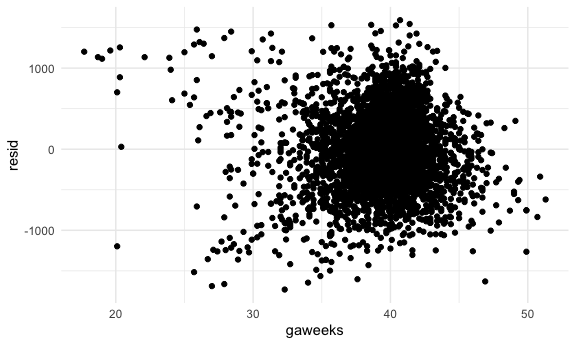
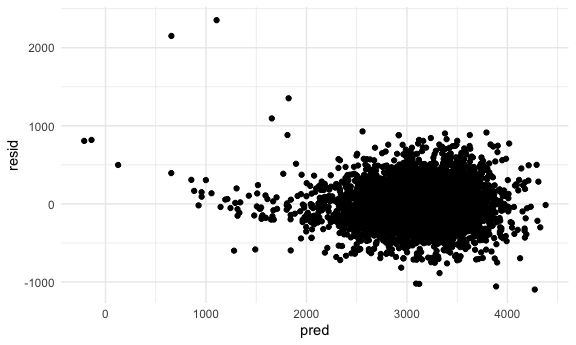
PROBLEM2

diff --git a/p8105_hw6_yz3955.md b/p8105_hw6_yz3955.md
@@ -39,6 +39,7 @@ homicide_df =
 Start with one city.
 
 ``` r
+#binomal(link=’logit’) #output follows binomial，link regression is logit，logistic regression
 baltimore_df =
   homicide_df %>% 
   filter(city_state == "Baltimore, MD")
@@ -62,6 +63,10 @@ glm(resolution ~ victim_age + victim_race + victim_sex,
 | victim\_raceWhite | 2.320 |     1.648 |     3.268 |
 | victim\_sexMale   | 0.426 |     0.325 |     0.558 |
 
+``` r
+## recall for logistic regression calculation equation:https://stats.stackexchange.com/questions/354098/calculating-confidence-intervals-for-a-logistic-regression
+```
+
 Try this across cities.
 
 ``` r
@@ -76,7 +81,7 @@ models_results_df =
   select(city_state, results) %>% 
   unnest(results) %>% 
   mutate(
-    OR = exp(estimate),
+    OR = exp(estimate), #  the odds ratio can be computed by raising e to the power of the logistic coefficient,
     CI_lower = exp(estimate - 1.96 * std.error),
     CI_upper = exp(estimate + 1.96 * std.error)
   ) %>% 
@@ -97,11 +102,30 @@ models_results_df %>%
 
 ## Problem 2
 
-Find some residuals
+### load data
 
 ``` r
 baby_df = 
-  read_csv("./data/birthweight.csv")
+  read_csv("./data/birthweight.csv") %>% 
+  mutate(
+    babysex = ifelse(babysex == 1, "male", "female"),
+    babysex = as.factor(babysex),
+    frace = case_when(
+      frace == 1 ~ "White", 
+      frace == 2 ~ "Black", 
+      frace == 3 ~ "Asian",
+      frace == 4 ~ "Puerto Rican",
+      frace == 8 ~ "Other",
+      frace == 9 ~ "Unknown"),
+    mrace = case_when(
+      mrace == 1 ~ "White", 
+      mrace == 2 ~ "Black", 
+      mrace == 3 ~ "Asian",
+      mrace == 4 ~ "Puerto Rican",
+      mrace == 8 ~ "Other"),
+   malform = ifelse(malform == 0, "absert", "present"),
+   malform = as.factor(malform)
+  )
 ```
 
     ## Parsed with column specification:
@@ -111,17 +135,281 @@ baby_df =
 
     ## See spec(...) for full column specifications.
 
-fit a model
+### fit a model:
+
+In order to get a hypothesized structure of linear model, I used
+Stepwise regression with both direction.
+
+First build the hypothesized model:
 
 ``` r
-model_fit = lm(bwt ~ gaweeks, data = baby_df)
+model_fit = 
+  lm(bwt ~., data = baby_df) %>% 
+  step(direction = "both")
 ```
+
+    ## Start:  AIC=48717.83
+    ## bwt ~ babysex + bhead + blength + delwt + fincome + frace + gaweeks + 
+    ##     malform + menarche + mheight + momage + mrace + parity + 
+    ##     pnumlbw + pnumsga + ppbmi + ppwt + smoken + wtgain
+    ## 
+    ## 
+    ## Step:  AIC=48717.83
+    ## bwt ~ babysex + bhead + blength + delwt + fincome + frace + gaweeks + 
+    ##     malform + menarche + mheight + momage + mrace + parity + 
+    ##     pnumlbw + pnumsga + ppbmi + ppwt + smoken
+    ## 
+    ## 
+    ## Step:  AIC=48717.83
+    ## bwt ~ babysex + bhead + blength + delwt + fincome + frace + gaweeks + 
+    ##     malform + menarche + mheight + momage + mrace + parity + 
+    ##     pnumlbw + ppbmi + ppwt + smoken
+    ## 
+    ## 
+    ## Step:  AIC=48717.83
+    ## bwt ~ babysex + bhead + blength + delwt + fincome + frace + gaweeks + 
+    ##     malform + menarche + mheight + momage + mrace + parity + 
+    ##     ppbmi + ppwt + smoken
+    ## 
+    ##            Df Sum of Sq       RSS   AIC
+    ## - frace     4    124365 320848704 48712
+    ## - malform   1      1419 320725757 48716
+    ## - ppbmi     1      6346 320730684 48716
+    ## - momage    1     28661 320752999 48716
+    ## - mheight   1     66886 320791224 48717
+    ## - menarche  1    111679 320836018 48717
+    ## - ppwt      1    131132 320855470 48718
+    ## <none>                  320724338 48718
+    ## - fincome   1    193454 320917792 48718
+    ## - parity    1    413584 321137922 48721
+    ## - mrace     3    868321 321592659 48724
+    ## - babysex   1    853796 321578134 48727
+    ## - gaweeks   1   4611823 325336161 48778
+    ## - smoken    1   5076393 325800732 48784
+    ## - delwt     1   8008891 328733230 48823
+    ## - blength   1 102050296 422774634 49915
+    ## - bhead     1 106535716 427260054 49961
+    ## 
+    ## Step:  AIC=48711.51
+    ## bwt ~ babysex + bhead + blength + delwt + fincome + gaweeks + 
+    ##     malform + menarche + mheight + momage + mrace + parity + 
+    ##     ppbmi + ppwt + smoken
+    ## 
+    ##            Df Sum of Sq       RSS   AIC
+    ## - malform   1      1447 320850151 48710
+    ## - ppbmi     1      6975 320855679 48710
+    ## - momage    1     28379 320877083 48710
+    ## - mheight   1     69502 320918206 48710
+    ## - menarche  1    115708 320964411 48711
+    ## - ppwt      1    133961 320982665 48711
+    ## <none>                  320848704 48712
+    ## - fincome   1    194405 321043108 48712
+    ## - parity    1    414687 321263390 48715
+    ## + frace     4    124365 320724338 48718
+    ## - babysex   1    852133 321700837 48721
+    ## - gaweeks   1   4625208 325473911 48772
+    ## - smoken    1   5036389 325885093 48777
+    ## - delwt     1   8013099 328861802 48817
+    ## - mrace     3  13540415 334389119 48885
+    ## - blength   1 101995688 422844392 49908
+    ## - bhead     1 106662962 427511666 49956
+    ## 
+    ## Step:  AIC=48709.53
+    ## bwt ~ babysex + bhead + blength + delwt + fincome + gaweeks + 
+    ##     menarche + mheight + momage + mrace + parity + ppbmi + ppwt + 
+    ##     smoken
+    ## 
+    ##            Df Sum of Sq       RSS   AIC
+    ## - ppbmi     1      6928 320857079 48708
+    ## - momage    1     28660 320878811 48708
+    ## - mheight   1     69320 320919470 48708
+    ## - menarche  1    116027 320966177 48709
+    ## - ppwt      1    133894 320984044 48709
+    ## <none>                  320850151 48710
+    ## - fincome   1    193784 321043934 48710
+    ## + malform   1      1447 320848704 48712
+    ## - parity    1    414482 321264633 48713
+    ## + frace     4    124393 320725757 48716
+    ## - babysex   1    851279 321701430 48719
+    ## - gaweeks   1   4624003 325474154 48770
+    ## - smoken    1   5035195 325885346 48775
+    ## - delwt     1   8029079 328879230 48815
+    ## - mrace     3  13553320 334403471 48883
+    ## - blength   1 102009225 422859375 49906
+    ## - bhead     1 106675331 427525481 49954
+    ## 
+    ## Step:  AIC=48707.63
+    ## bwt ~ babysex + bhead + blength + delwt + fincome + gaweeks + 
+    ##     menarche + mheight + momage + mrace + parity + ppwt + smoken
+    ## 
+    ##            Df Sum of Sq       RSS   AIC
+    ## - momage    1     29211 320886290 48706
+    ## - menarche  1    117635 320974714 48707
+    ## <none>                  320857079 48708
+    ## - fincome   1    195199 321052278 48708
+    ## + ppbmi     1      6928 320850151 48710
+    ## + malform   1      1400 320855679 48710
+    ## - parity    1    412984 321270064 48711
+    ## + frace     4    125020 320732060 48714
+    ## - babysex   1    850020 321707099 48717
+    ## - mheight   1   1078673 321935752 48720
+    ## - ppwt      1   2934023 323791103 48745
+    ## - gaweeks   1   4621504 325478583 48768
+    ## - smoken    1   5039368 325896447 48773
+    ## - delwt     1   8024939 328882018 48813
+    ## - mrace     3  13551444 334408523 48881
+    ## - blength   1 102018559 422875638 49904
+    ## - bhead     1 106821342 427678421 49953
+    ## 
+    ## Step:  AIC=48706.02
+    ## bwt ~ babysex + bhead + blength + delwt + fincome + gaweeks + 
+    ##     menarche + mheight + mrace + parity + ppwt + smoken
+    ## 
+    ##            Df Sum of Sq       RSS   AIC
+    ## - menarche  1    100121 320986412 48705
+    ## <none>                  320886290 48706
+    ## - fincome   1    240800 321127090 48707
+    ## + momage    1     29211 320857079 48708
+    ## + ppbmi     1      7479 320878811 48708
+    ## + malform   1      1678 320884612 48708
+    ## - parity    1    431433 321317724 48710
+    ## + frace     4    124743 320761547 48712
+    ## - babysex   1    841278 321727568 48715
+    ## - mheight   1   1076739 321963029 48719
+    ## - ppwt      1   2913653 323799943 48743
+    ## - gaweeks   1   4676469 325562760 48767
+    ## - smoken    1   5045104 325931394 48772
+    ## - delwt     1   8000672 328886962 48811
+    ## - mrace     3  14667730 335554021 48894
+    ## - blength   1 101990556 422876847 49902
+    ## - bhead     1 106864308 427750598 49952
+    ## 
+    ## Step:  AIC=48705.38
+    ## bwt ~ babysex + bhead + blength + delwt + fincome + gaweeks + 
+    ##     mheight + mrace + parity + ppwt + smoken
+    ## 
+    ##            Df Sum of Sq       RSS   AIC
+    ## <none>                  320986412 48705
+    ## + menarche  1    100121 320886290 48706
+    ## - fincome   1    245637 321232048 48707
+    ## + momage    1     11698 320974714 48707
+    ## + ppbmi     1      8823 320977589 48707
+    ## + malform   1      1884 320984528 48707
+    ## - parity    1    422770 321409181 48709
+    ## + frace     4    128726 320857686 48712
+    ## - babysex   1    846134 321832545 48715
+    ## - mheight   1   1012240 321998651 48717
+    ## - ppwt      1   2907049 323893461 48743
+    ## - gaweeks   1   4662501 325648912 48766
+    ## - smoken    1   5073849 326060260 48771
+    ## - delwt     1   8137459 329123871 48812
+    ## - mrace     3  14683609 335670021 48894
+    ## - blength   1 102191779 423178191 49903
+    ## - bhead     1 106779754 427766166 49950
+
+``` r
+summary(model_fit)
+```
+
+    ## 
+    ## Call:
+    ## lm(formula = bwt ~ babysex + bhead + blength + delwt + fincome + 
+    ##     gaweeks + mheight + mrace + parity + ppwt + smoken, data = baby_df)
+    ## 
+    ## Residuals:
+    ##      Min       1Q   Median       3Q      Max 
+    ## -1097.18  -185.52    -3.39   174.14  2353.44 
+    ## 
+    ## Coefficients:
+    ##                     Estimate Std. Error t value Pr(>|t|)    
+    ## (Intercept)       -6145.1507   141.9496 -43.291  < 2e-16 ***
+    ## babysexmale         -28.5580     8.4549  -3.378 0.000737 ***
+    ## bhead               130.7770     3.4466  37.944  < 2e-16 ***
+    ## blength              74.9471     2.0190  37.120  < 2e-16 ***
+    ## delwt                 4.1067     0.3921  10.475  < 2e-16 ***
+    ## fincome               0.3180     0.1747   1.820 0.068844 .  
+    ## gaweeks              11.5925     1.4621   7.929 2.79e-15 ***
+    ## mheight               6.5940     1.7849   3.694 0.000223 ***
+    ## mraceBlack          -63.9057    42.3663  -1.508 0.131523    
+    ## mracePuerto Rican   -25.7914    45.3502  -0.569 0.569578    
+    ## mraceWhite           74.8868    42.3146   1.770 0.076837 .  
+    ## parity               96.3047    40.3362   2.388 0.017004 *  
+    ## ppwt                 -2.6756     0.4274  -6.261 4.20e-10 ***
+    ## smoken               -4.8434     0.5856  -8.271  < 2e-16 ***
+    ## ---
+    ## Signif. codes:  0 '***' 0.001 '**' 0.01 '*' 0.05 '.' 0.1 ' ' 1
+    ## 
+    ## Residual standard error: 272.3 on 4328 degrees of freedom
+    ## Multiple R-squared:  0.7181, Adjusted R-squared:  0.7173 
+    ## F-statistic: 848.1 on 13 and 4328 DF,  p-value: < 2.2e-16
+
+After calculting AIC score for adding a variable or remove a variable,
+the final model for birthweight prediction includes
+variables:babysexmale, bhead, blength, delwt, fincome, gaweeks, mheight,
+mrace, parity, ppwt, smoken.
+
+#### a plot of model residuals against fitted values:
 
 ``` r
 baby_df %>% 
   modelr::add_residuals(model_fit) %>% 
-  ggplot(aes(x = gaweeks, y = resid)) + 
+  add_predictions(model_fit) %>% 
+  ggplot(aes(x = pred, y = resid)) + 
   geom_point()
 ```
 
 <img src="p8105_hw6_yz3955_files/figure-gfm/unnamed-chunk-7-1.png" width="90%" />
+The points of residuals vs fitted plot concentrated at residuals = 0.  
+The residuals roughly form a “horizontal band” around the 0 line but the
+residuals doesn’t seem to “bounce randomly” around the 0 line.
+
+### create two other models
+
+fit2 using length at brith and gestational age as predictors.  
+fit3 using head circumference, length, sex, and all interactions
+(including the three-way interaction) between these
+
+``` r
+fit2 = lm(bwt ~ blength + gaweeks, data = baby_df)
+fit3 = lm(bwt ~ blength * bhead * babysex, data = baby_df)
+```
+
+### cross validation
+
+``` r
+birthw_cv = 
+  crossv_mc(baby_df, 1000) %>% 
+  mutate(
+    train = map(train, as_tibble),
+    test = map(test, as_tibble),
+    step_mod = map(.x = train, ~lm(bwt ~., data = .x)),
+    fit2_mod = map(.x = train, ~lm(bwt ~ blength + gaweeks, data = .x)),
+    fit3_mod = map(.x = train, ~lm(bwt ~ blength * bhead * babysex, data = .x))) %>% 
+  mutate(
+    rmse_step = map2_dbl(step_mod, test, ~rmse(model = .x, data = .y)),
+    rmse_fit2    = map2_dbl(fit2_mod, test, ~rmse(model = .x, data = .y)),
+    rmse_fit3 = map2_dbl(fit3_mod, test, ~rmse(model = .x, data = .y))
+  )
+```
+
+#### make a boxplot of rmse in different models
+
+``` r
+birthw_cv %>% 
+  select(starts_with("rmse")) %>% 
+  pivot_longer(
+    everything(),
+    names_to = "model", 
+    values_to = "rmse",
+    names_prefix = "rmse_") %>% 
+  mutate(model = fct_inorder(model)) %>% 
+  ggplot(aes(x = model, y = rmse)) + 
+  geom_violin()
+```
+
+<img src="p8105_hw6_yz3955_files/figure-gfm/unnamed-chunk-10-1.png" width="90%" />
+
+From above boxplot, we can easily see that my model(stepwise regression)
+is the optimal one. It has the smallest mean and median of rmse. Fit3 is
+better than fit1, which means that the model should not only include
+length at birth and gestational age as predictors.
